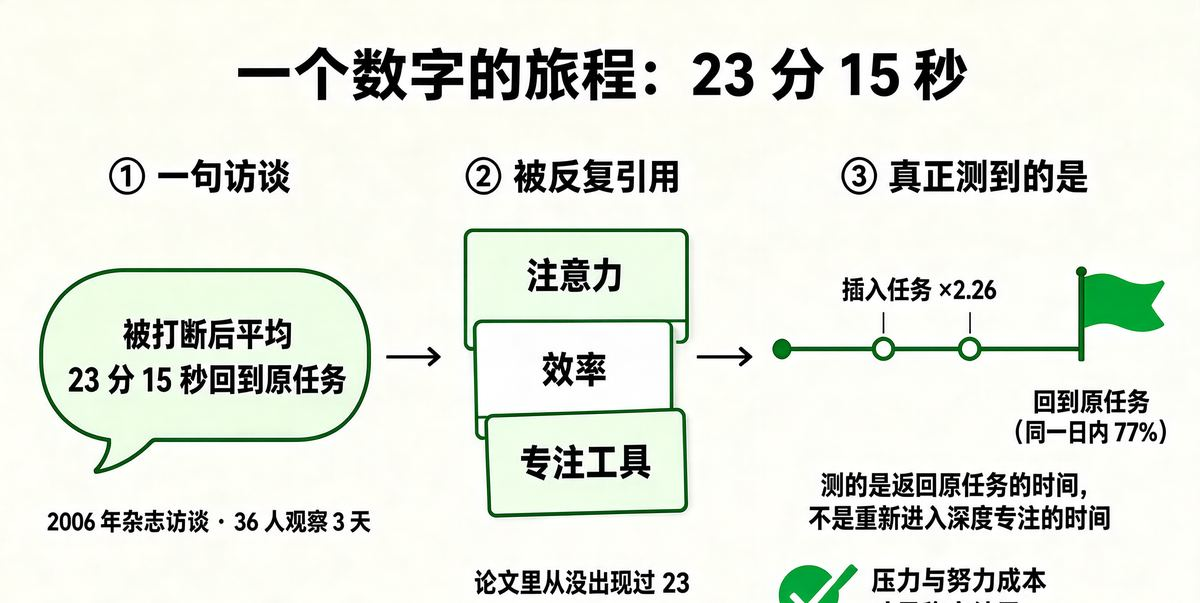
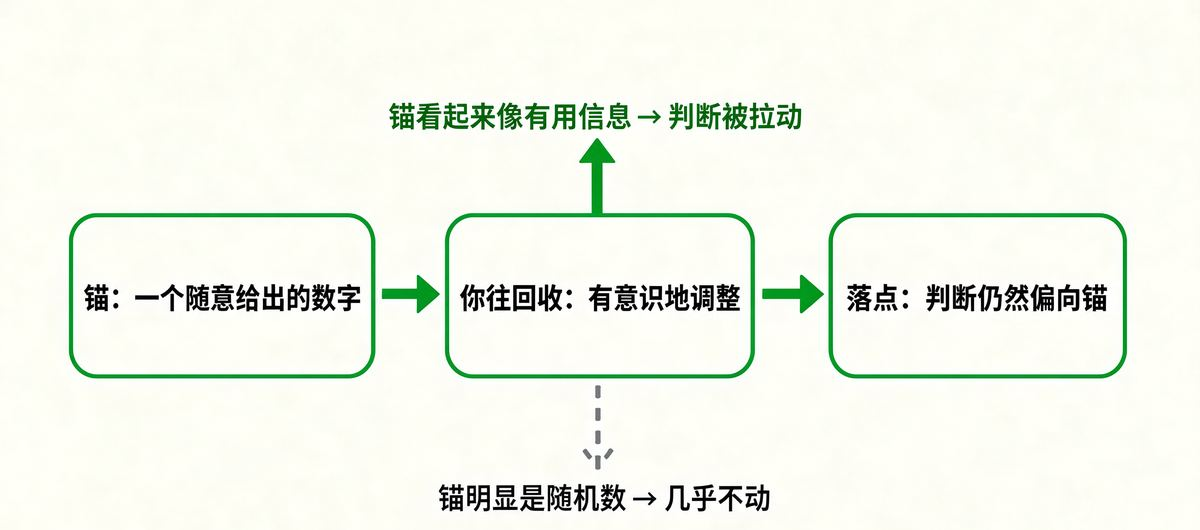
feat(blog): 大脑使用说明 #003：先出价的人赢？锚定的证据只支持一半

diff --git a/src/content/articles/brain-manual-2026-10-22.md b/src/content/articles/brain-manual-2026-10-22.md
@@ -1,101 +1,104 @@
 ---
-title: "大脑使用说明 #003：「23 分 15 秒」——一个没有论文的数字"
-description: "「被打断一次要花 23 分钟才能回来」这个数字在一篇被反复引用的论文里根本不存在，它来自 2006 年的一次访谈。而真正做过实验的人发现：被打断的一组完成得更快、质量没差，代价记在压力上。本期还带来两条速递——一个 361 人的预注册现场实验没能在会议里做出效果，以及两套元分析对「媒体多任务」给出了相反温度。"
+title: "大脑使用说明 #003：先出价的人赢？锚定的证据只支持一半"
+description: "锚定是心理学里复现得最好的现象之一，但「先报价就掌握主动」是它被过度销售的那一半：这个文献的研究设计普遍达不到 30% 统计功效；当锚明说是随机数时，扩大样本后锚定操纵直接失败；法律判决的元分析（29 项研究 / N = 8,549）显示效应在（d = .58），但受情境调节。本期还带来两条速递（AI 认知卸载的两种模式、课堂短活动休息）和一条反直觉发现——短休息让你「感觉恢复」，不等于「表现恢复」。"
 date: 2026-10-22
 image: "https://mxppxm.github.io/images/brain-manual-2026-10-22.jpg"
 tags:
   - "🧠 大脑使用说明"
   - "🧪 可复制性"
-  - "🎯 注意与打断"
+  - "⚖ 判断与决策"
 ---
 
-# 「23 分 15 秒」：一个没有论文的数字，和一个更奇怪的真实结论
+# 先出价的人赢？锚定的证据只支持一半
 
-> 你被反复告知「被打断一次要花 23 分钟才能回来」。这个数字找不到出处；而真正做过实验的人发现，被打断的人往往更快完成，只是更累。
+> 锚定是心理学里复现得最好的现象之一；但「先报价就掌握主动」是它被过度销售的那一半——锚到底拉不拉得动人，取决于那个数字看起来像不像有用信息。
 
 **TL;DR**
 
-- **「23 分 15 秒」在一篇被反复引用的论文里根本不存在**：那个数字来自 2006 年的一次访谈，背后是 36 人、3 天的小规模田野观察。
-- **它测的是「回到原任务的时间」，不是「重新进入专注的时间」**：期间人们平均还做完了 2 件多别的事——那是被带走，不是被冻住。
-- **真正稳定的代价在压力侧**：实验室里被打断的一组完成得更快、质量没差，但压力、挫败、时间压力和努力感全线升高。
+- **锚定是真的，但复现时明显缩水。** 一项 2025 年的重新检验发现，这个文献的研究设计（包括后来的复现）普遍达不到 30% 统计功效；把一项「出价提高 31%」的研究用更高功效重做后，效应变小了。
+- **锚一旦「看起来毫无信息」，效应可以彻底消失。** 用一瓶葡萄酒做的复现里，让被试对着一个明说是随机数的价格出价，扩大样本后锚定操纵直接失败（原话：our anchoring manipulation failed in a large sample）。
+- **决定成败的不是谁先开价，是锚的「诊断性」。** 法律判决的元分析（29 项研究 / 93 个效应量 / N = 8,549）显示效应确实存在（d = .58），但受情境调节，且有发表偏倚的迹象。
 
-## 01 今天的议题：一句访谈是怎么变成一篇「论文」的
+## 01 今天的议题：把「锚定」讲成「先出价必胜」
 
-### 常见做法：把一个数字当硬指标用
+### 常见做法：把它当成一条谈判技巧
 
-「被打断一次，要 23 分钟才能回到状态」大概是注意力话题里最有名的一句话。它出现在效率书的开头、企业培训的 PPT 里、专注类 App 的宣传语中，也被拿来当社交挡箭牌——「别打断我，你这一句话值 23 分钟」。用得久了，很多人默认它背后是一篇正规研究：有样本、有对照、有统计。
+「先报价的人掌握主动」「开价要高，先把锚扔出去」「看房先看挂牌价，心里就有数了」——这些说法建立在一个真实存在的基础上：Tversky 和 Kahneman 在 1974 年让被试先看一个转盘停在 10 或 65，再估「联合国里非洲国家占多少比例」，两组的中位数估计分别是 **25% 和 45%**。一个和被问的问题毫无关系的随机数字，就这样把答案拉走了。这一现象叫「锚定与调整」。
 
-问题在于，这个数字经不起一次溯源。
+问题在于，从**「效应存在」**走到**「先出价必胜」**，中间隔着一整套没被检查过的东西。前半句是实验结果，后半句是一条行动建议——而把它俩直接划等号，正是这一期要拆的地方。
 
-### 证据说了什么：三步溯源
+### 证据说了什么：三个坏消息，一个好消息
 
-**第一步，去看最常被引的那篇论文。** 几乎所有引用都会指向 Gloria Mark、Daniela Gudith 和 Ulrich Klocke 发表在 CHI 2008 的《The Cost of Interrupted Work: More Speed and Stress》。这篇论文是真的，方法也是干净的：**48 名受试者**在实验室里扮演人事经理、处理邮件，一部分人每两分钟被打断一次。但把它全文打开搜「23」——**没有任何结果**。它没有报告恢复时间，也没有得出「打断很慢」这个结论。
+**坏消息一：这个文献本身功效不足。** Li、Weigel、Ferraro 和 Messer（2025，*Economic Inquiry*）重新检查了锚定文献的研究设计，结论是这些设计——包括后来的复现研究——常常达不到 **30% 的统计功效**。他们复现了一项报告「出价提高 31%」的研究，用更高的功效重做之后，效应变小。低功效的文献会系统性地把效应量吹大，这件事在锚定领域是普遍状态，不是个例。
 
-**第二步，找数字的真正出处。** 一位工程师（blog.oberien.de）和职业教练 Geoff Mazeroff 各自做过一次溯源，结论一致：这个数字来自 **2006 年 Gloria Mark 接受的一次杂志访谈**（Gallup Business Journal）。访谈里她说的是：被中断的工作里 **81.9% 在当天恢复**，平均在 **23 分 15 秒**后回到原任务；观察对象是 **36 名**管理者和知识工作者，被跟随观察了 **3 天**。也就是说，这是一句研究者对自己田野数据的口头概括，样本不到 40 人、没有预注册、也没有独立复现。
+**坏消息二：锚一旦「明显没有信息」，效应可能直接归零。** Ioannidis、Offerman 和 Sloof（2020，*Journal of the Economic Science Association*）用一瓶葡萄酒做估值实验：他们告诉被试一个「明说是随机生成」的价格，问愿不愿意按这个价卖，然后测愿付价格。结果在扩大样本后，**锚定操纵失败了**——作者的原话是 our anchoring manipulation failed in a large sample。他们随后做了一个小型元分析，试图界定「什么情况下偏好锚定才成立」。换句话说，锚定不是无条件生效的；它的前提是那个数字看起来跟问题有关。
 
-**第三步，看它到底测的是什么。** 这一点最关键，也是 Mark 自己在访谈里紧接着说的：被打断之后，人并不是立刻回到原任务，**中间平均还会插进大约两件事**，所以回到原任务需要更多力气。翻译一下：23 分 15 秒量的是「我什么时候再打开那个文件」——那段时间里人一直在干活，只是干的是别的活。它从来不是「大脑被冻结了 23 分钟」。
+**坏消息三：平均效应大，不等于到处都大。** Klein 等（2014）的 Many Labs 项目用 36 个样本、N = 6,344 复现 13 个经典效应，锚定是活下来的那几个之一。但他们的异质性分析发现，最大的异质性恰恰出现在这些「超大效应」上——平均效应很大，掩盖了它在一个个具体场景里忽大忽小。
 
-![一个数字的旅程：23 分 15 秒](https://mxppxm.github.io/images/brain-manual-2026-10-22.jpg)
+**好消息：锚定也不是空壳。** Bystranowski 等（2021，*Law and Human Behavior*）针对法律判决做了元分析：29 项研究、93 个效应量、N = 8,549。有对照组的整体效应 **d = .58**（95% CI [.44, .73]），没有对照组的 d = .91。效应确实在，而且法官、律师这类受训专业人士也会被拉动，只是比普通人小一些。作者同时提示可能存在发表偏倚。
 
-**图 1** · 本期主线：左边是一句访谈里的口头概括，中间经过二十年引用层层加固，右边才是那项研究真正测到的东西——回到原任务的时间，而不是重新进入专注的时间。
+> **图 1** · 锚定效应的基本链条与它的前提条件：从「锚」到「有意识地调整」再到「落点仍偏向锚」；但这条链能不能走通，取决于那个锚看起来像不像有用信息。依据 Tversky & Kahneman（1974）与 Ioannidis 等（2020）的复现结果绘制。
 
-> **概念 · 僵尸统计量（zombie statistic）**
-> 指那些被反复引用、却找不到原始出处、也纠正不掉的数字。它们通常有三个特征：数字很整、听起来很严重、来源是访谈而不是论文。
-> 同一篇 CHI 2008 论文的作者自己在文中写过一句更值得记住的话：「一定量的打断是可以容忍的，因为人们会用更高的工作速度来补偿。」
+### 修正后的做法
 
-### 修正后的做法：别算分钟，看这两件事
+把「先出价」从一条必胜的招数，降级成一个条件性动作：
 
-既然「每次打断亏 23 分钟」是个坏指标，那用什么替代？换成两个能自己观测的量：
+1. **先算自己的数，再看别人的数。** 锚的作用发生在「你还没形成判断」的那个窗口里。一旦你先写下了自己的区间再看数字，锚至少不再是你唯一的参照物。
+2. **判断这个锚「看起来有没有信息」。** 红酒实验给的教训是：锚的信息性（diagnosticity）才是调节变量。同一个数字，「随机数」版本拉不动人，「上一位房主的挂牌价」版本就拉得动。所以要问的是：**如果不知道这个数字的来历，我还会往那边调吗？**
+3. **反过来用，但别指望它定结果。** 法律元分析显示专家受锚影响更小；市场里多个独立出价也会互相压缩。Ioannidis 等人的另一个发现是，交易组内被试的愿付价格**方差会收缩**。也就是说，多个独立判断互相抵消，比一句漂亮的开场白更可靠。
 
-- **被带走的次数**：一次打断之后，我有没有在回到原任务之前插入别的活？插了几件？
-- **一天的打断次数**：是「十几次」还是「两次，但都发生在同一段需要长链条推理的工作里」？
+**证据等级**
 
-前者决定了你什么时候能回到原任务，后者决定了这些打断到底伤不伤你。这两个问题是可数的——而「23 分钟」不可验证，只能被引用。
+- **强证据**：「锚定现象存在」——多实验室、多国家复现成功，且有领域元分析支持（d ≈ .58）。
+- **弱证据**：「先出价必胜」——这是把一个中等效应、在特定条件下成立的结果，翻译成了一条无条件建议。它的适用范围比它的流行度小得多。
 
-## 02 今日速递：预注册现场实验的坏消息，与两套打架的元分析
+## 02 今日速递
 
-**强证据 · 给会议「提个醒」，没有让会议更有效。** 微软研究院的 Lev Tankelevitch 与合作者在 CHI 2026 报告了一个预注册的现场实验：在一家全球科技公司里，**361 名员工、7196 场会议**，随机分到处理组的人在协作平台里会收到会前目标反思的简短问卷。结果是——对会议有效性的影响**没有达到统计显著**。有意思的是副作用：两组人在自我报告里都说注意力和准备行为变好了，因为「会后评价问卷」本身变成了干预。研究者的结论很克制：支持目标反思是有希望的，但在真实组织的规范与流程里，这类反思很难被干净地测量。**未被独立复现。**
+### 速递一：把 AI 当「脚手架」还是当「替身」，是两件事
 
-**中等证据 · 「多任务会让人更容易分心」这件事，两套元分析给出了相反温度。** 一边是 Kong 等 2023 年发表在 *Educational Psychology Review* 的三水平元分析，汇总 **43 项研究、118 个效应量**，得到媒体多任务与认知控制之间**中等程度的负相关**，且集中在抑制控制和工作记忆上，认知灵活性上**没有显著差异**。另一边是 Wiradhany 与 Nieuwenstein 2017 年发表在 *Attention, Perception & Psychophysics* 上的工作：他们做了两个复现研究（共 14 项检验，只有 5 项按传统检验标准复现成功，贝叶斯分析里只剩 2 项站得住），再做元分析后发现这个关联**非常微弱，并且明显受小样本效应影响**，用两种校正方法处理后就塌了下去。同一批文献，两套汇总方法，两种结论。合理读法是：媒体多任务与「更容易被干扰」之间可能存在一个很小的关联，但它小到不足以预测任何一个人的注意水平；把它讲成「刷手机让你变笨」是过度承诺。**结论仍在摇摆，未被稳定复现。**
+Zhu 等（2026，*Frontiers in Psychology* 17:1878629）做了一项三波滞后调查（N = 589，大学生与早期职业知识工作者），把「认知卸载」拆成两种可分开测量的倾向：**依赖性卸载**（把核心思考交给 AI）和**自主性卸载**（把 AI 当脚手架，认知主体仍在自己身上）。研究检验了一个双路径模型：两种卸载模式分别对应不同的下游结果。
 
-## 03 反直觉发现：被打断的人更快，但更累
+**【弱证据】** 它是自我报告的问卷数据，三波滞后只能提高时序可信度，不能证明因果。「依赖性卸载后果更差」目前只能当假设，不是结论。
 
-现在回到那篇被误引的论文本身——它的真实结果比传说里更有意思。
+是否被独立复现：**否**。这是 2026 年 7 月刚发表的新研究，尚未见到独立复现。
 
-在那 48 人的实验里，研究者算的是「扣掉处理打断的时间之后，处理完这批邮件的纯耗时」：**被打断的两种情况分别是 20.31 分钟和 20.60 分钟，反而低于不被打断的 22.77 分钟**；邮件质量（礼貌度、错别字）**没有显著差异**。也就是说，被打断的人把时间追回来了。
+### 速递二：课堂里 5–15 分钟的短时身体活动
 
-但代价记在别的地方：用 NASA 任务负荷量表测出来的**压力、挫败感、时间压力和努力感显著更高**。作者的解释是「补偿」——人会下意识提速来填掉被打断的坑，坑填上了，账却记在体力和情绪上。
+Li 等（2026，*European Journal of Pediatrics* 185:690，8 月 24 日上线）汇总了 **25 项随机对照试验**，量化课堂内「活动休息」对注意、抑制控制、工作记忆和认知灵活性的影响。合并估计在注意（SMD = −0.53）和抑制控制（SMD = −0.49）上都偏向活动休息（负号代表反应时更短、表现更好），工作记忆与认知灵活性同样为正。探索性亚组分析提示，**5–15 分钟、单次急性**的形式可能效果更好。
 
-| 指标 | 数值 |
-| --- | --- |
-| 不被打断时的纯耗时 | 22.77 分钟 |
-| 同上下文打断时 | 20.31 分钟 |
-| 不同上下文打断时 | 20.60 分钟 |
-| 受试者人数 | 48 人（扮演人事经理，回 12 封邮件） |
+**【中等证据】** 25 项 RCT 是较硬的证据形态，但人群是儿童青少年，而且亚组分析是探索性的——把它直接搬到成人办公场景，没有直接证据。
 
-为什么反直觉？因为我们对打断的默认模型是「时间损失」：打断 5 分钟，就是多花 5 分钟。真实模型至少有两层成本：**分钟成本**能靠提速补偿，实验室里甚至被完全抹平；**状态成本**（压力、努力、对错误的容忍度）补偿不了，它会累积成「一天下来很忙但很累」。你感觉「被打断很难受」是真的，但那个难受不是 23 分钟。
+是否被独立复现：**否**，这是新发表的元分析；不过它汇总的本身都是一手随机试验，比单项研究更稳。
 
-**适用边界要说清楚**：这是一个 48 人的实验室研究，任务是套路化的邮件回复，打断被设定为每两分钟一次。它不能外推到需要长链条推理的工作——写一屏代码、推一段论证时被打断，丢掉的可能是一整段思路，那种损失是另一个量级。但它的教训是可迁移的：对「打断的成本」，你该自己数，而不是引用一个数字。
+## 03 反直觉发现：短休息让你「感觉恢复」，不等于「表现恢复」
+
+Albulescu 等（2022，*PLOS ONE*）汇总了 22 个独立样本（N = 2,335）的实验与准实验研究，专门看「微休息」——10 分钟以内的短暂停顿。结果是：
+
+- 提升活力：**d = .36**（k = 9, n = 913，p < .001）
+- 降低疲劳：**d = .35**（k = 9, n = 803，p < .001）
+- 整体表现：**d = .16，不显著**（p = .116）
+
+反直觉的地方在这里：我们靠**「感觉」**来判断休息够不够，而感觉指标（活力、疲劳）恰恰是那两个好看的、显著的数字；真正想改善的**表现**，合并效应不显著。分类型的亚组分析里，只有认知需求较低的任务出现了显著提升；元回归还显示，**休息越长，表现提升越大**。
+
+这解释了为什么「休息一下效率更高」听起来永远是对的——你测的是前者，说的是后者。换个说法：如果一个任务很耗认知，10 分钟以内的停顿大概只能让你舒服一点，不会让你更快。
 
 ## 🎯 今天可以试的一件事
 
-1. **给打断开一张「停车票」**——被打断（包括你自己主动切出去）之前，花 30 秒在编辑器里写下两行：*我正在做什么 / 下一步是什么*，然后再去处理打断。回来时读这两行。
-2. **每天记两个数**——① 今天回到原任务的次数；② 被打断后、回到原任务之前插入了别的事情的次数（插了 3 件就算 3）。写进手机备忘录，一行一天。
-3. **第 5 天回看**——看第 ② 个数有没有从「插了 2–3 件」降到「插 1 件就回来了」。如果有，说明停车票在起作用；如果数字没变，说明你的打断主要来自外部而不是自己的注意力漂移，那就该改的是别人找你时的入口，而不是你的自控力。
+1. **做一次「预登记估值」。** 挑一个你今天真要做出的估计——改版要几天、某个方案的成本、买某样东西的心理价位。**在打开任何外部报价之前**，先写下你的数字和一个 ± 区间（例如「3.5 天，±1 天」）。
+2. **再看锚，然后记录位移。** 看到对方的数字后，写下你最终采用的值。记一个数：最终值 − 你的预设值。如果位移方向总是朝着锚、且超过了你原本的区间，说明这次你被拉走了。
+3. **连续记 5 次。** 5 次之后你会得到一个自己的「吸附率」：被拉走的次数 ÷ 5。可量化、可验证，而且它比任何谈判技巧课都更能说明你在什么场合需要先算后看。
 
 ## 参考来源
 
-1. Mark, Gudith & Klocke · The Cost of Interrupted Work: More Speed and Stress · CHI 2008（DOI 10.1145/1357054.1357072）· https://ics.uci.edu/~gmark/chi08-mark.pdf
-2. Mark, González & Harris · No Task Left Behind? Examining the Nature of Fragmented Work · CHI 2005 · https://doi.org/10.1145/1054972.1055017
-3. Geoff Mazeroff · The Context-Switching Statistic That Got Lost in Translation · 个人博客 2026-03-23 · https://geoffmazeroff.com/2026/03/23/the-context-switching-statistic-that-got-lost-in-translation
-4. oberien · Interruptions cost 23 minutes 15 seconds, right? · 个人博客 2023-11-05 · https://blog.oberien.de/2023/11/05/23-minutes-15-seconds.html
-5. Wiradhany & Nieuwenstein · Cognitive control in media multitaskers: Two replication studies and a meta-analysis · Attention, Perception & Psychophysics 79(8), 2620–2641 · 2017 · https://doi.org/10.3758/s13414-017-1408-4
-6. Kong, Meng, Deng, Wang & Sun · Cognitive Control in Adolescents and Young Adults with Media Multitasking Experience: a Three-Level Meta-analysis · Educational Psychology Review 35:22 · 2023 · https://doi.org/10.1007/s10648-023-09746-0
-7. Tankelevitch, Scott, Challakere, Panda & Rintel · Nudging Attention to Workplace Meeting Goals: A Large-Scale, Preregistered Field Experiment · CHI 2026（arXiv:2602.16939）· 2026-02-18 · https://arxiv.org/abs/2602.16939
-8. Gloria Mark（访谈）· Why our attention spans are shrinking · APA Speaking of Psychology Ep. 225 · 2023 · https://www.apa.org/news/podcasts/speaking-of-psychology/attention-spans
+1. [Tversky & Kahneman · Judgment under Uncertainty: Heuristics and Biases · Science 185:1124–1131 · 1974](https://people.clemson.edu/rtamura/340/Kahneman&TverskyScience.pdf)
+2. [Klein et al. · Investigating Variation in Replicability: A “Many Labs” Replication Project · Social Psychology · 2014](https://stanford.edu/~knutson/jdm/klein14.pdf)
+3. [Ioannidis, Offerman & Sloof · On the effect of anchoring on valuations when the anchor is transparently uninformative · Journal of the Economic Science Association 6:77–94 · 2020](https://doi.org/10.1007/s40881-020-00094-1)
+4. [Li, Weigel, Ferraro & Messer · Underpowered studies and exaggerated effects: A replication and re-evaluation of the magnitude of anchoring effects · Economic Inquiry 63(2):387–402 · 2025](https://onlinelibrary.wiley.com/doi/10.1111/ecin.13279)
+5. [Bystranowski, Janik, Próchnicki & Skórska · Anchoring effect in legal decision-making: A meta-analysis · Law and Human Behavior 45(1):1–23 · 2021](https://pubmed.ncbi.nlm.nih.gov/33734746/)
+6. [Zhu, Li, Dong, Chang & Fan · Not all cognitive offloading is equal: distinguishing dependent and autonomous offloading to generative AI · Frontiers in Psychology 17:1878629 · 2026](https://www.frontiersin.org/journals/psychology/articles/10.3389/fpsyg.2026.1878629/full)
+7. [Li, Shangguan, Zhong, Zhou, Wang & Li · Effects of active breaks on attention and executive function in children and adolescents: A meta-analysis · European Journal of Pediatrics 185:690 · 2026](https://link.springer.com/article/10.1007/s00431-026-07341-3)
+8. [Albulescu, Macsinga, Rusu, Sulea, Bodnaru & Tulbure · “Give me a break!” A systematic review and meta-analysis on the efficacy of micro-breaks · PLOS ONE 17(8):e0272460 · 2022](https://journals.plos.org/plosone/article?id=10.1371/journal.pone.0272460)
 
 ---
 
-*数据与结论均标注来源；证据强度已分级标注，弱证据不等于错，但请勿据此做重大决定。心理学经典结论翻车率不低，「机制听上去合理」不能当作有效性的证据。*
-
-*第 #003 期 · 2026-10-22 · 大脑使用说明日报 · 由 clacky 自动整理 · 每天上午 09:00 更新。*
+*第 #003 期 · 2026-10-22 · 大脑使用说明 · 由 clacky 自动整理 · 每天 09:00 更新。数据与结论均标注来源；证据强度已分级标注，弱证据不等于错，但请勿据此做重大决定。*
